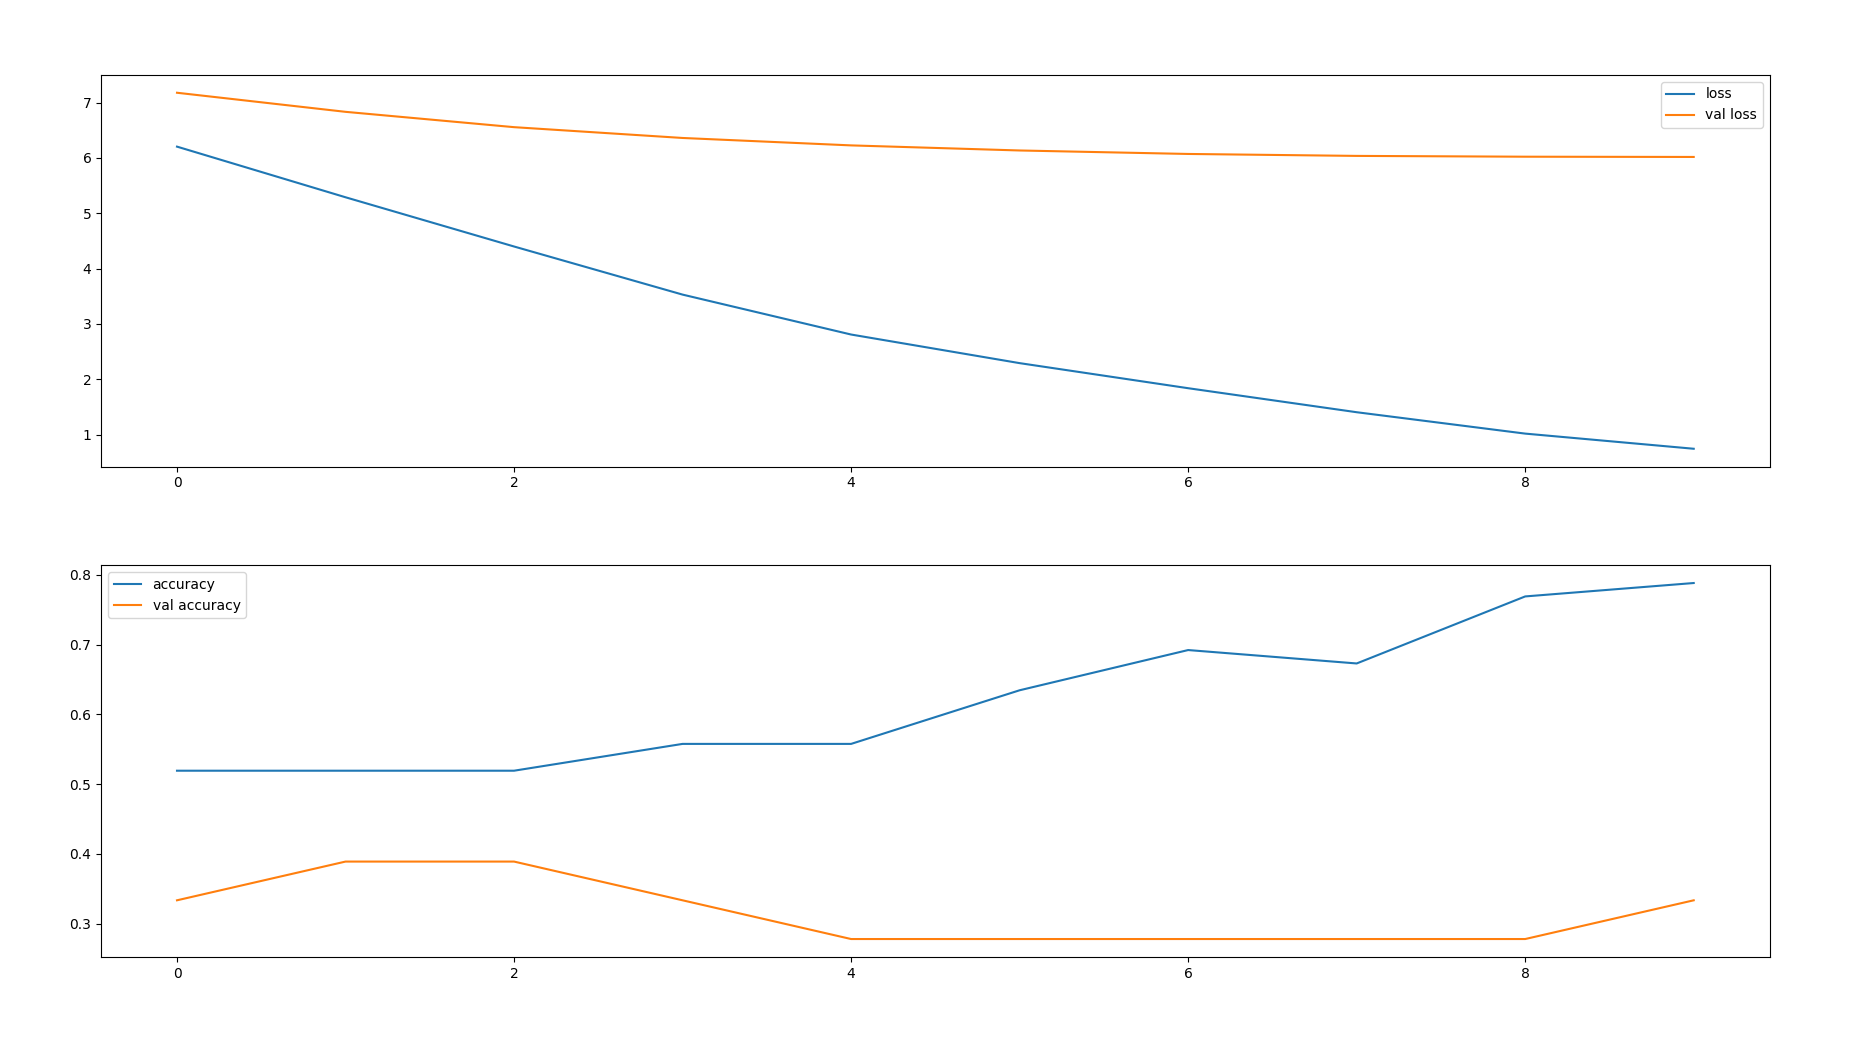
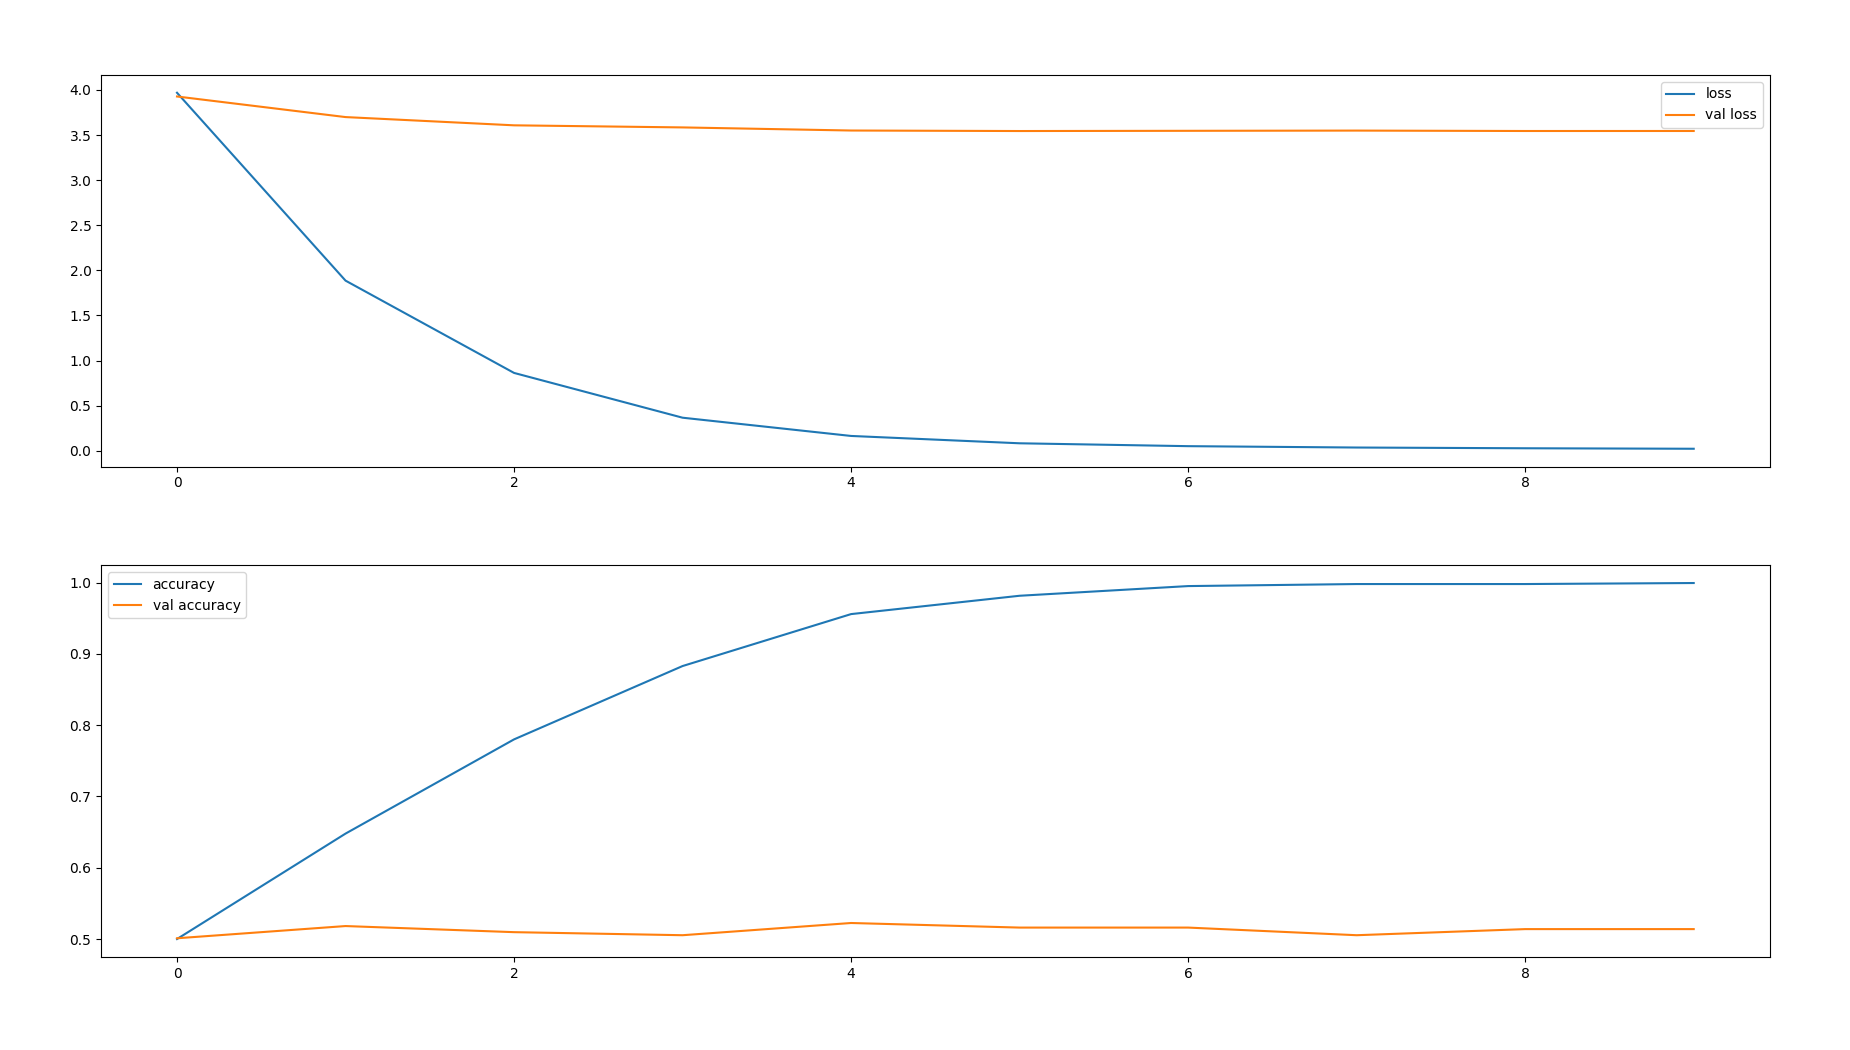
more bug fixes

diff --git a/features.py b/features.py
@@ -12,10 +12,17 @@ def get_features(ekg: np.ndarray, leads=[i for i in range(12)]) -> pd.DataFrame:
     """
     features = {}
     HR, RR_var, RR_var_normalized = beat_characteristics(leads, lead_num=1)
+    avg_QRS_interval = None
+    try:
+        avg_QRS_interval = get_avg_qrs_interval(ekg)
+    except:
+        print('QRS failed')
+        avg_QRS_interval = np.nan
 
     # Features that are independent of lead
     features['HR'] = HR
     features['RR_var'] = RR_var
+    features['avg_QRS_interval'] = avg_QRS_interval / 200
 
     # Features that are calculated per lead
     for i in leads:
@@ -82,7 +89,7 @@ def reject_outliers(data:np.ndarray, m:float = 3.):
 
     return data[s<m]
 
-def get_R_indices(ekg:np.ndarray, lead_num:int=2, R_factor:float=5., distance:int=100):
+def get_R_indices(ekg:np.ndarray, lead_num:int=1, R_factor:float=5., distance:int=100):
     """
     Gets the indices of R peaks in a single lead 
     
@@ -100,7 +107,7 @@ def get_R_indices(ekg:np.ndarray, lead_num:int=2, R_factor:float=5., distance:in
 
     return R_indices
 
-def get_avg_RR_interval(ekg:np.ndarray, lead_num:int=2, R_factor:float=5., distance:int=100, significane:float=3.):
+def get_avg_RR_interval(ekg:np.ndarray, lead_num:int=1, R_factor:float=5., distance:int=100, significane:float=3.):
     """
     Gets the average RR interval in a single lead
     
@@ -124,7 +131,7 @@ def get_avg_RR_interval(ekg:np.ndarray, lead_num:int=2, R_factor:float=5., dista
 
     return avg_rr_interval
 
-def get_QS_indices(ekg:np.ndarray, lead_num:int=2, window_factor:float=4., R_factor:float=5., distance:int=100):
+def get_QS_indices(ekg:np.ndarray, lead_num:int=1, window_factor:float=4., R_factor:float=5., distance:int=100):
     """
     Gets the indices of Q and S peaks in a single lead 
     
@@ -156,7 +163,7 @@ def get_QS_indices(ekg:np.ndarray, lead_num:int=2, window_factor:float=4., R_fac
 
     return Q_indices, S_indices
 
-def get_avg_qrs_interval(ekg:np.ndarray, lead_num:int=2, window_factor:float=4., R_factor:float=5., distance:int=100, significance:float=3.):
+def get_avg_qrs_interval(ekg:np.ndarray, lead_num:int=1, window_factor:float=4., R_factor:float=5., distance:int=100, significance:float=3.):
     """
     Gets the average QRS interval in a single lead 
     

diff --git a/pipeline.py b/pipeline.py
@@ -5,8 +5,8 @@ from features import get_features
 from trees import baseline_tree
 from networks import baseline_network, cnn
 
-# ekgs, features, diagnoses = load_ekgs()
-ekgs, features, diagnoses = load_ekgs_fast()
+ekgs, features, diagnoses = load_ekgs()
+# ekgs, features, diagnoses = load_ekgs_fast()
 features = features.join(diagnoses['ECG: atrial fibrillation'])
 
 # Get equal amount of label=1 and label=0
@@ -47,15 +47,20 @@ for ekg in ekgs:
     ekgs_temp.append(ekg_temp)
 ekgs_with_features = np.array(ekgs_temp)
 
+# Remove NaNs from the dataframe
 features2 = pd.DataFrame(data=features2)
 features_tree = features.join(features2)
 for col in features_tree.columns:
     features_tree[col] = features_tree[col].fillna(features_tree[col].median())
 
+# Remove NaNs from the numpy array
+for i in range(features_tree.shape[1]):
+    ekgs_with_features[:, :, -i] = np.nan_to_num(ekgs_with_features[:, :, -i], np.nanmean(ekgs_with_features[:, :, -i]))
+    ekgs_with_features[:, :, -i] = np.max(ekgs_with_features[:, :, -i].flatten())
 
 print('training decision tree...')
-# baseline_tree(features_tree, 'ECG: atrial fibrillation')
+baseline_tree(features_tree, 'ECG: atrial fibrillation')
 print('training baseline neural network...')
-# baseline_network(features, ekgs_with_features, 'ECG: atrial fibrillation')
+baseline_network(features, ekgs_with_features, 'ECG: atrial fibrillation', lr=0.0001)
 print('training cnn neural network')
-cnn(features, ekgs, 'ECG: atrial fibrillation', lr=1e-6)
+cnn(features, ekgs[:, 1:2, :], 'ECG: atrial fibrillation', lr=1e-6)

diff --git a/networks.py b/networks.py
@@ -36,7 +36,7 @@ def evaluate_model(model, X_test, y_test):
 
     return {'loss': metrics[0], 'acc': metrics[1]}
 
-def baseline_network(data: pd.DataFrame, ekgs: np.ndarray, target: str):
+def baseline_network(data: pd.DataFrame, ekgs: np.ndarray, target: str, lr=0.0001):
     feature_labels = data.columns.copy().tolist()
     feature_labels.remove(target)
 
@@ -55,7 +55,7 @@ def baseline_network(data: pd.DataFrame, ekgs: np.ndarray, target: str):
     ])
 
     model.compile(
-        optimizer = tf.keras.optimizers.Adam(learning_rate=.0001),
+        optimizer = tf.keras.optimizers.Adam(learning_rate=lr),
         loss = 'BinaryCrossentropy',
         metrics = ['acc'],
     )
@@ -79,7 +79,7 @@ def cnn(data: pd.DataFrame, ekgs: np.ndarray, target: str, lr=1e-6):
     X_valid, X_test, y_valid, y_test = train_test_split(X_test, y_test, test_size=0.5)
 
     model = tf.keras.models.Sequential([
-        tf.keras.layers.Conv2D(64, (12, 50), activation='relu', input_shape=(X_train.shape[1], X_train.shape[2], 1)),
+        tf.keras.layers.Conv2D(16, (1, 20), activation='relu', input_shape=(X_train.shape[1], X_train.shape[2], 1)),
         tf.keras.layers.Flatten(),
         tf.keras.layers.Dense(512, activation='relu'),
         tf.keras.layers.Dense(1024, activation='relu'),

diff --git a/ekg.py b/ekg.py
@@ -73,7 +73,7 @@ def load_ekgs() -> tuple((np.ndarray, DataFrame, DataFrame)):
                 # Loading the file might fail, if so then skip it
                 try:
                     ekg, feature, diagnosis = load_ekg(path + '/' + file[:-4])
-                    # remove_baseline_wander(ekg)
+                    ekg = bring_ekg_med_to_zero(ekg)
                 except:
                     continue
                     
